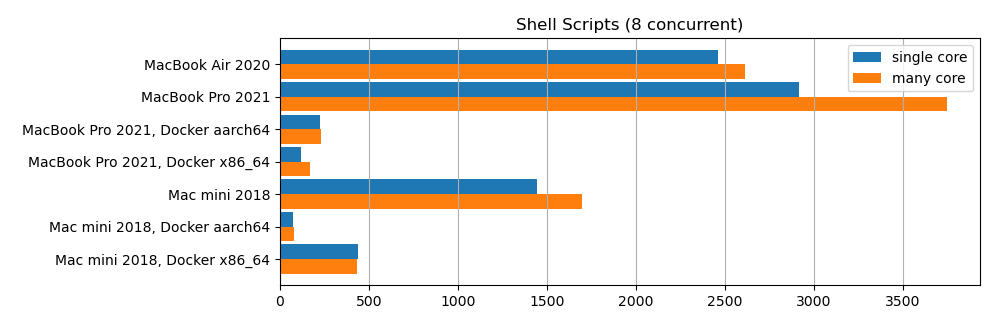
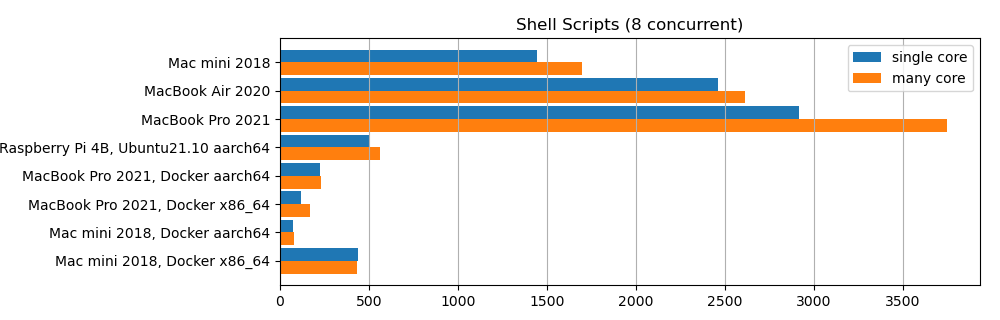
add raspi4b ubuntu aarch64

Changed region(s): [[0.0, 0.1562, 0.961, 0.75], [0.062, 0.7812, 0.279, 0.8438], [0.279, 0.75, 0.372, 0.7812]]

diff --git a/result/raspi4b-aarch64-2022-04-09-01.html b/result/raspi4b-aarch64-2022-04-09-01.html
@@ -1,0 +1,344 @@
+<!DOCTYPE HTML PUBLIC "-//W3C//DTD HTML 4.01 Transitional//EN"
+"http://www.w3.org/TR/html4/loose.dtd">
+<html>
+<head>
+  <meta http-equiv="Content-Type" content="text/html; charset=utf-8">
+  <meta name="keywords" content="linux, benchmarks, benchmarking">
+  <title>Benchmark of raspi4b / GNU/Linux on 土  4月 09 2022</title>
+  <style type="text/css">
+    table {
+      margin: 1em 1em 1em 0;
+      background: #f9f9f9;
+      border: 1px #aaaaaa solid;
+      border-collapse: collapse;
+    }
+
+    table th, table td {
+      border: 1px #aaaaaa solid;
+      padding: 0.2em;
+    }
+
+    table th {
+      background: #f2f2f2;
+      text-align: center;
+    }
+  </style>
+</head>
+<body>
+<h2>Benchmark of raspi4b / GNU/Linux on 土  4月 09 2022</h2>
+<p><b>BYTE UNIX Benchmarks (Version 5.1.3)</b></p>
+
+<h3>Test System Information</h3>
+<p><table>
+<tr>
+   <td><b>System:</b></td>
+   <td colspan=2>raspi4b: GNU/Linux</td>
+</tr><tr>
+   <td><b>OS:</b></td>
+   <td colspan=2>GNU/Linux -- 5.13.0-1024-raspi -- #26-Ubuntu SMP PREEMPT Fri Mar 25 10:54:36 UTC 2022</td>
+</tr><tr>
+   <td><b>Machine:</b></td>
+   <td colspan=2>aarch64: aarch64</td>
+</tr><tr>
+   <td><b>Language:</b></td>
+   <td colspan=2>en_US.utf8 (charmap="UTF-8", collate="UTF-8")</td>
+</tr>
+<tr>
+   <td rowspan=4><b>CPUs:</b></td>
+   <td><b>0:</b></td>
+   <td> (108.0 bogomips)<br/>
+       </td>
+</tr>
+<tr>
+   <td><b>1:</b></td>
+   <td> (108.0 bogomips)<br/>
+       </td>
+</tr>
+<tr>
+   <td><b>2:</b></td>
+   <td> (108.0 bogomips)<br/>
+       </td>
+</tr>
+<tr>
+   <td><b>3:</b></td>
+   <td> (108.0 bogomips)<br/>
+       </td>
+</tr>
+<tr>
+   <td><b>Uptime:</b></td>
+   <td colspan=2>13:03:13 up  3:54,  2 users,  load average: 0.30, 0.27, 0.12; runlevel 2022-04-08</td>
+</tr>
+</table></p>
+
+<p><hr/></p>
+<h3>Benchmark Run: 4 CPUs; 1 parallel process</h3>
+<p>Time: 13:03:13 - 13:31:35; 28m 22s</p>
+
+<h4>System Benchmarks</h4>
+<p><table width="100%">
+<tr>
+   <th align=left>Test</th>
+   <th align=right>Score</th>
+   <th align=left>Unit</th>
+   <th align=right>Time</th>
+   <th align=right>Iters.</th>
+   <th align=right>Baseline</th>
+   <th align=right>Index</th>
+</tr>
+<tr>
+   <td><b>Dhrystone 2 using register variables</b></td>
+   <td align=right><tt>16242429.1</tt></td>
+   <td align=left><tt>lps</tt></td>
+   <td align=right><tt>10.0 s</tt></td>
+   <td align=right><tt>7</tt></td>
+   <td align=right><tt>116700.0</tt></td>
+   <td align=right><tt>1391.8</tt></td>
+</tr>
+<tr>
+   <td><b>Double-Precision Whetstone</b></td>
+   <td align=right><tt>2715.7</tt></td>
+   <td align=left><tt>MWIPS</tt></td>
+   <td align=right><tt>10.0 s</tt></td>
+   <td align=right><tt>7</tt></td>
+   <td align=right><tt>55.0</tt></td>
+   <td align=right><tt>493.8</tt></td>
+</tr>
+<tr>
+   <td><b>Execl Throughput</b></td>
+   <td align=right><tt>363.6</tt></td>
+   <td align=left><tt>lps</tt></td>
+   <td align=right><tt>29.9 s</tt></td>
+   <td align=right><tt>2</tt></td>
+   <td align=right><tt>43.0</tt></td>
+   <td align=right><tt>84.6</tt></td>
+</tr>
+<tr>
+   <td><b>File Copy 1024 bufsize 2000 maxblocks</b></td>
+   <td align=right><tt>72544.5</tt></td>
+   <td align=left><tt>KBps</tt></td>
+   <td align=right><tt>30.0 s</tt></td>
+   <td align=right><tt>2</tt></td>
+   <td align=right><tt>3960.0</tt></td>
+   <td align=right><tt>183.2</tt></td>
+</tr>
+<tr>
+   <td><b>File Copy 256 bufsize 500 maxblocks</b></td>
+   <td align=right><tt>19610.4</tt></td>
+   <td align=left><tt>KBps</tt></td>
+   <td align=right><tt>30.0 s</tt></td>
+   <td align=right><tt>2</tt></td>
+   <td align=right><tt>1655.0</tt></td>
+   <td align=right><tt>118.5</tt></td>
+</tr>
+<tr>
+   <td><b>File Copy 4096 bufsize 8000 maxblocks</b></td>
+   <td align=right><tt>221907.7</tt></td>
+   <td align=left><tt>KBps</tt></td>
+   <td align=right><tt>30.0 s</tt></td>
+   <td align=right><tt>2</tt></td>
+   <td align=right><tt>5800.0</tt></td>
+   <td align=right><tt>382.6</tt></td>
+</tr>
+<tr>
+   <td><b>Pipe Throughput</b></td>
+   <td align=right><tt>105478.6</tt></td>
+   <td align=left><tt>lps</tt></td>
+   <td align=right><tt>10.0 s</tt></td>
+   <td align=right><tt>7</tt></td>
+   <td align=right><tt>12440.0</tt></td>
+   <td align=right><tt>84.8</tt></td>
+</tr>
+<tr>
+   <td><b>Pipe-based Context Switching</b></td>
+   <td align=right><tt>21305.1</tt></td>
+   <td align=left><tt>lps</tt></td>
+   <td align=right><tt>10.0 s</tt></td>
+   <td align=right><tt>7</tt></td>
+   <td align=right><tt>4000.0</tt></td>
+   <td align=right><tt>53.3</tt></td>
+</tr>
+<tr>
+   <td><b>Process Creation</b></td>
+   <td align=right><tt>1408.7</tt></td>
+   <td align=left><tt>lps</tt></td>
+   <td align=right><tt>30.0 s</tt></td>
+   <td align=right><tt>2</tt></td>
+   <td align=right><tt>126.0</tt></td>
+   <td align=right><tt>111.8</tt></td>
+</tr>
+<tr>
+   <td><b>Shell Scripts (1 concurrent)</b></td>
+   <td align=right><tt>1549.4</tt></td>
+   <td align=left><tt>lpm</tt></td>
+   <td align=right><tt>60.0 s</tt></td>
+   <td align=right><tt>2</tt></td>
+   <td align=right><tt>42.4</tt></td>
+   <td align=right><tt>365.4</tt></td>
+</tr>
+<tr>
+   <td><b>Shell Scripts (8 concurrent)</b></td>
+   <td align=right><tt>499.5</tt></td>
+   <td align=left><tt>lpm</tt></td>
+   <td align=right><tt>60.1 s</tt></td>
+   <td align=right><tt>2</tt></td>
+   <td align=right><tt>6.0</tt></td>
+   <td align=right><tt>832.5</tt></td>
+</tr>
+<tr>
+   <td><b>System Call Overhead</b></td>
+   <td align=right><tt>113159.5</tt></td>
+   <td align=left><tt>lps</tt></td>
+   <td align=right><tt>10.0 s</tt></td>
+   <td align=right><tt>7</tt></td>
+   <td align=right><tt>15000.0</tt></td>
+   <td align=right><tt>75.4</tt></td>
+</tr>
+<tr>
+   <td colspan=6><b>System Benchmarks Index Score:</b></td>
+   <td align=right><b><tt>205.3</tt></b></td>
+</tr>
+</table></p>
+
+<p><hr/></p>
+<h3>Benchmark Run: 4 CPUs; 4 parallel processes</h3>
+<p>Time: 13:31:35 - 14:00:00; 28m 25s</p>
+
+<h4>System Benchmarks</h4>
+<p><table width="100%">
+<tr>
+   <th align=left>Test</th>
+   <th align=right>Score</th>
+   <th align=left>Unit</th>
+   <th align=right>Time</th>
+   <th align=right>Iters.</th>
+   <th align=right>Baseline</th>
+   <th align=right>Index</th>
+</tr>
+<tr>
+   <td><b>Dhrystone 2 using register variables</b></td>
+   <td align=right><tt>64857292.4</tt></td>
+   <td align=left><tt>lps</tt></td>
+   <td align=right><tt>10.0 s</tt></td>
+   <td align=right><tt>7</tt></td>
+   <td align=right><tt>116700.0</tt></td>
+   <td align=right><tt>5557.6</tt></td>
+</tr>
+<tr>
+   <td><b>Double-Precision Whetstone</b></td>
+   <td align=right><tt>10842.5</tt></td>
+   <td align=left><tt>MWIPS</tt></td>
+   <td align=right><tt>10.0 s</tt></td>
+   <td align=right><tt>7</tt></td>
+   <td align=right><tt>55.0</tt></td>
+   <td align=right><tt>1971.4</tt></td>
+</tr>
+<tr>
+   <td><b>Execl Throughput</b></td>
+   <td align=right><tt>1308.1</tt></td>
+   <td align=left><tt>lps</tt></td>
+   <td align=right><tt>29.9 s</tt></td>
+   <td align=right><tt>2</tt></td>
+   <td align=right><tt>43.0</tt></td>
+   <td align=right><tt>304.2</tt></td>
+</tr>
+<tr>
+   <td><b>File Copy 1024 bufsize 2000 maxblocks</b></td>
+   <td align=right><tt>146129.9</tt></td>
+   <td align=left><tt>KBps</tt></td>
+   <td align=right><tt>30.0 s</tt></td>
+   <td align=right><tt>2</tt></td>
+   <td align=right><tt>3960.0</tt></td>
+   <td align=right><tt>369.0</tt></td>
+</tr>
+<tr>
+   <td><b>File Copy 256 bufsize 500 maxblocks</b></td>
+   <td align=right><tt>38652.5</tt></td>
+   <td align=left><tt>KBps</tt></td>
+   <td align=right><tt>30.0 s</tt></td>
+   <td align=right><tt>2</tt></td>
+   <td align=right><tt>1655.0</tt></td>
+   <td align=right><tt>233.5</tt></td>
+</tr>
+<tr>
+   <td><b>File Copy 4096 bufsize 8000 maxblocks</b></td>
+   <td align=right><tt>393374.4</tt></td>
+   <td align=left><tt>KBps</tt></td>
+   <td align=right><tt>30.0 s</tt></td>
+   <td align=right><tt>2</tt></td>
+   <td align=right><tt>5800.0</tt></td>
+   <td align=right><tt>678.2</tt></td>
+</tr>
+<tr>
+   <td><b>Pipe Throughput</b></td>
+   <td align=right><tt>421583.0</tt></td>
+   <td align=left><tt>lps</tt></td>
+   <td align=right><tt>10.0 s</tt></td>
+   <td align=right><tt>7</tt></td>
+   <td align=right><tt>12440.0</tt></td>
+   <td align=right><tt>338.9</tt></td>
+</tr>
+<tr>
+   <td><b>Pipe-based Context Switching</b></td>
+   <td align=right><tt>98340.6</tt></td>
+   <td align=left><tt>lps</tt></td>
+   <td align=right><tt>10.0 s</tt></td>
+   <td align=right><tt>7</tt></td>
+   <td align=right><tt>4000.0</tt></td>
+   <td align=right><tt>245.9</tt></td>
+</tr>
+<tr>
+   <td><b>Process Creation</b></td>
+   <td align=right><tt>5329.0</tt></td>
+   <td align=left><tt>lps</tt></td>
+   <td align=right><tt>30.0 s</tt></td>
+   <td align=right><tt>2</tt></td>
+   <td align=right><tt>126.0</tt></td>
+   <td align=right><tt>422.9</tt></td>
+</tr>
+<tr>
+   <td><b>Shell Scripts (1 concurrent)</b></td>
+   <td align=right><tt>4207.2</tt></td>
+   <td align=left><tt>lpm</tt></td>
+   <td align=right><tt>60.0 s</tt></td>
+   <td align=right><tt>2</tt></td>
+   <td align=right><tt>42.4</tt></td>
+   <td align=right><tt>992.3</tt></td>
+</tr>
+<tr>
+   <td><b>Shell Scripts (8 concurrent)</b></td>
+   <td align=right><tt>560.3</tt></td>
+   <td align=left><tt>lpm</tt></td>
+   <td align=right><tt>60.2 s</tt></td>
+   <td align=right><tt>2</tt></td>
+   <td align=right><tt>6.0</tt></td>
+   <td align=right><tt>933.8</tt></td>
+</tr>
+<tr>
+   <td><b>System Call Overhead</b></td>
+   <td align=right><tt>447933.1</tt></td>
+   <td align=left><tt>lps</tt></td>
+   <td align=right><tt>10.0 s</tt></td>
+   <td align=right><tt>7</tt></td>
+   <td align=right><tt>15000.0</tt></td>
+   <td align=right><tt>298.6</tt></td>
+</tr>
+<tr>
+   <td colspan=6><b>System Benchmarks Index Score:</b></td>
+   <td align=right><b><tt>593.2</tt></b></td>
+</tr>
+</table></p>
+
+<p><hr/></p>
+<div><b>No Warranties:</b> This information is provided free of charge and "as
+is" without any warranty, condition, or representation of any kind,
+either express or implied, including but not limited to, any warranty
+respecting non-infringement, and the implied warranties of conditions
+of merchantability and fitness for a particular purpose. All logos or
+trademarks on this site are the property of their respective owner. In
+no event shall the author be liable for any
+direct, indirect, special, incidental, consequential or other damages
+howsoever caused whether arising in contract, tort, or otherwise,
+arising out of or in connection with the use or performance of the
+information contained on this web site.</div>
+</body>
+</html>

diff --git a/README.md b/README.md
@@ -2,9 +2,10 @@
 
 - [MacBook Air 2020](https://htmlpreview.github.io/?https://github.com/kose/benchmark-UnixBench/blob/main/result/MBA2020.local-2022-04-08-01.html): M1 4+4コア, MEM:8GB, SSD:512GB
 - [MacBook Pro 2021](https://htmlpreview.github.io/?https://github.com/kose/benchmark-UnixBench/blob/main/result/MBP2021.local-2022-04-08-03.html): M1 Pro 8+2コア, MEM:16GB, SSD:1TB
+- [Mac mini 2018](https://htmlpreview.github.io/?https://github.com/kose/benchmark-UnixBench/blob/main/result/mini2019.local-2022-04-08-01.html): Core i5-8500B, 6コア 3.00GHz, MEM:16GB, SSD:1TB
+- [Raspberry Pi 4B, Ubuntu21.10 aarch64](https://htmlpreview.github.io/?https://github.com/kose/benchmark-UnixBench/blob/main/result/raspi4b-aarch64-2022-04-09-01.html): ARM Cortex-A72, 4コア, 1.5GHz
 - [MacBook Pro 2021, Docker Ubuntu 21.10 aarch64](https://htmlpreview.github.io/?https://github.com/kose/benchmark-UnixBench/blob/main/result/MBP2021-aarch64-2022-04-08-01.html): M1 Pro 8+2コア, MEM:16GB, SSD:1TB
 - [MacBook Pro 2021, Docker Ubuntu 21.10 x86_64](https://htmlpreview.github.io/?https://github.com/kose/benchmark-UnixBench/blob/main/result/MBP2021-x86_64-2022-04-08-01.html): M1 Pro 8+2コア, MEM:16GB, SSD:1TB
-- [Mac mini 2018](https://htmlpreview.github.io/?https://github.com/kose/benchmark-UnixBench/blob/main/result/mini2019.local-2022-04-08-01.html): Core i5-8500B, 6コア 3.00GHz, MEM:16GB, SSD:1TB
 - [Mac mini 2018, Docker Ubuntu 21.10 aarch64](https://htmlpreview.github.io/?https://github.com/kose/benchmark-UnixBench/blob/main/result/mini2019-aarch64-2022-04-08-01.html): Core i5-8500B, 6コア 3.00GHz, MEM:16GB, SSD:1TB
 - [Mac mini 2018, Docker Ubuntu 21.10 x86_64](https://htmlpreview.github.io/?https://github.com/kose/benchmark-UnixBench/blob/main/result/mini2019-x86_64-2022-04-08-01.html): Core i5-8500B, 6コア 3.00GHz, MEM:16GB, SSD:1TB
 
